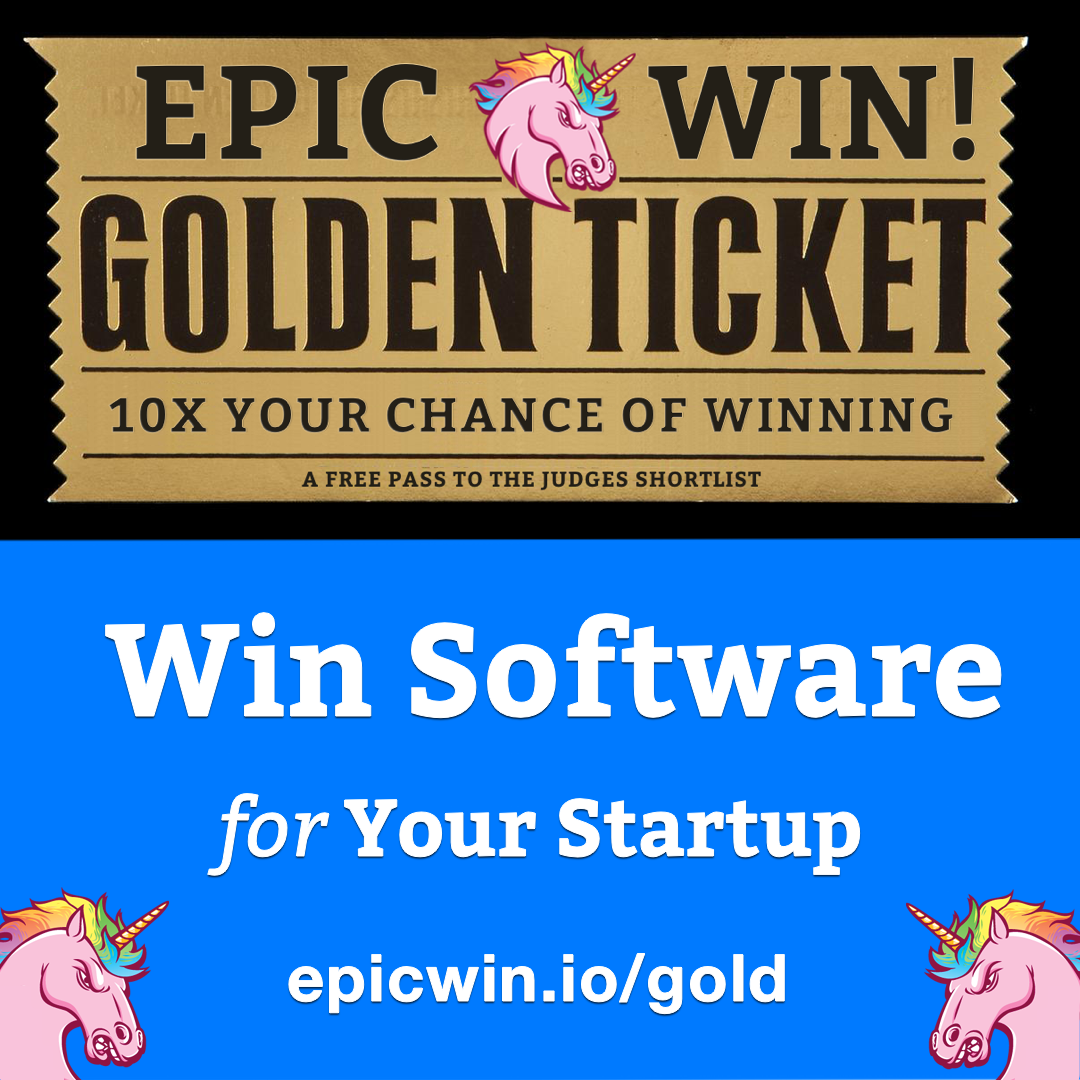
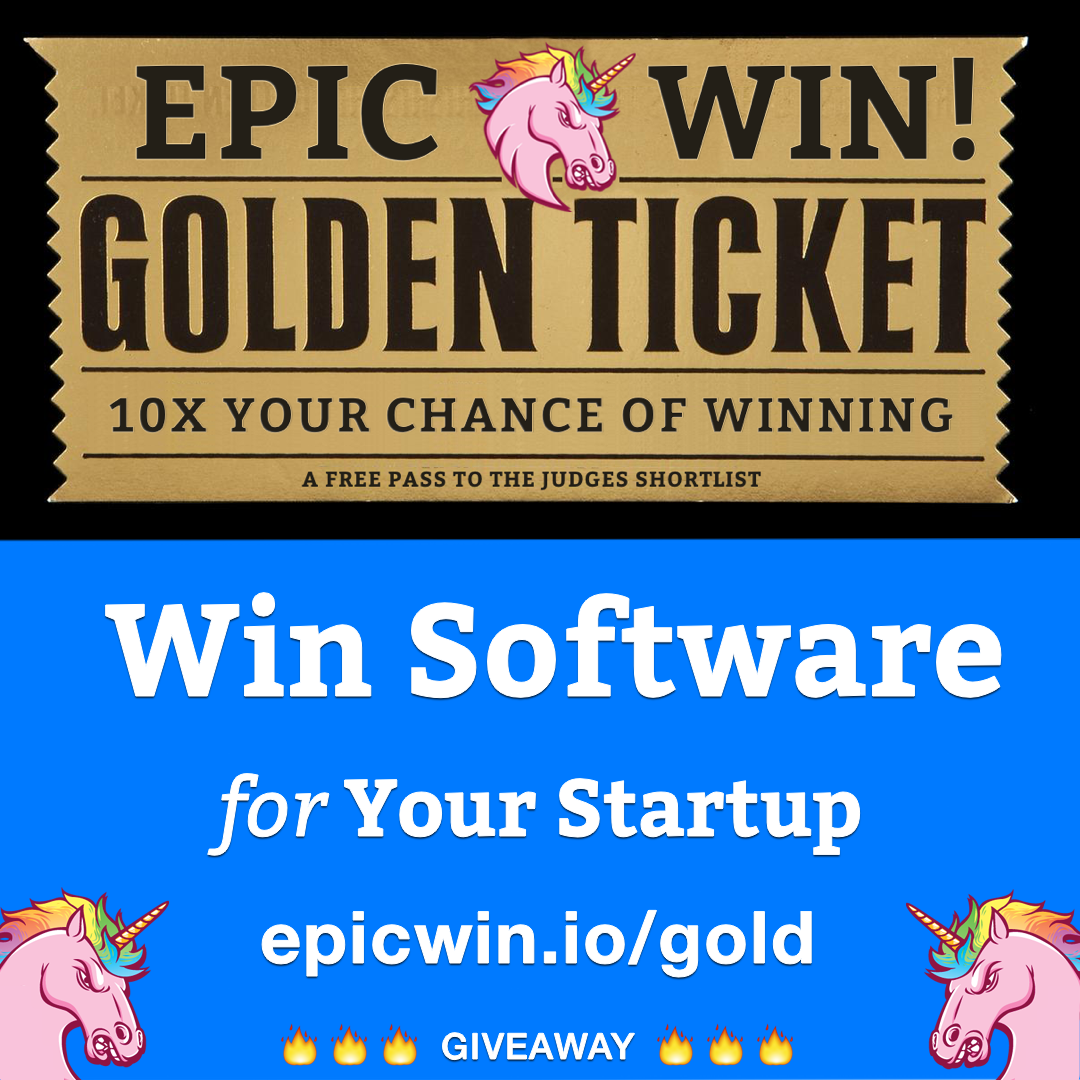
(Pre-Giveaway) and new gold image

Changed region(s): [[0.1833, 0.7028, 0.7944, 1.0], [0.0917, 0.55, 0.9472, 0.6722]]

diff --git a/_posts/2017-06-29-shopify.html b/_posts/2017-06-29-shopify.html
@@ -1,7 +1,7 @@
 ---
 layout:                 post
 slug:                   "shopify"
-title:                  "I WANT Shopify FREE for a YEAR!"
+title:                  "I WANT Shopify FREE for a YEAR! (Pre-Giveaway)"
 date:                   2017-06-29 00:16:53 +1000
 categories:             giveaway
 product_name:           "Shopify"
@@ -13,7 +13,7 @@ product_url_freetrial:  "https://app.shopify.com/services/signup/setup"
 gleam_coupon_url:       ""
 gleam_coupon_text:      ""
 gleam_competition_url:  "https://gleam.io/iHq3j/i-want-shopify-free-for-a-year"
-gleam_competition_text: "I WANT Shopify FREE for a YEAR!"
+gleam_competition_text: "I WANT Shopify FREE for a YEAR! (Pre-Giveaway)"
 gleam_question:         "In 10 words or less \"sell\" Shopify"
 gleam_starts:           "2017-07-27 12:00:00 AM"
 gleam_ends:             "2017-08-26 11:59:59 PM"
@@ -24,4 +24,4 @@ affiliate_default:      "chrisjacob.au"
 
 ---
 
-I WANT Shopify FREE for a YEAR!
+I WANT Shopify FREE for a YEAR! (Pre-Giveaway)

diff --git a/_posts/2017-06-28-gold.html b/_posts/2017-06-28-gold.html
@@ -1,7 +1,7 @@
 ---
 layout:                 post
 slug:                   "gold"
-title:                  "EPIC WIN Golden Ticket"
+title:                  "EPIC WIN Golden Ticket (Giveaway)"
 date:                   2017-06-28 00:16:53 +1000
 categories:             giveaway
 product_name:           "Golden Ticket"
@@ -12,10 +12,10 @@ product_url_pricing:    ""
 product_url_freetrial:  ""
 gleam_coupon_url:       ""
 gleam_coupon_text:      ""
-gleam_competition_url:  "https://gleam.io/rPtuy/epic-win-golden-ticket-10x-your-chance-of-winning-epic-software"
-gleam_competition_text: "EPIC WIN Golden Ticket (10x Your Chance of Winning Epic Software!)"
+gleam_competition_url:  "https://gleam.io/rPtuy/epic-win-golden-ticket-giveaway"
+gleam_competition_text: "EPIC WIN Golden Ticket (Giveaway)"
 affiliate_key:          "ref"
 affiliate_default:      "epicwinio"
 ---
 
-EPIC WIN Golden Ticket (10x Your Chance of Winning Epic Software!)
+EPIC WIN Golden Ticket (Giveaway)

diff --git a/_posts/2017-07-12-clickfunnels.html b/_posts/2017-07-12-clickfunnels.html
@@ -1,7 +1,7 @@
 ---
 layout:                 post
 slug:                   "clickfunnels"
-title:                  "I WANT ClickFunnels FREE for a YEAR!"
+title:                  "I WANT ClickFunnels FREE for a YEAR! (Pre-Giveaway)"
 date:                   2017-07-12 00:16:53 +1000
 categories:             giveaway
 product_name:           "ClickFunnels"
@@ -13,9 +13,9 @@ product_url_freetrial:  "https://www.clickfunnels.com/"
 gleam_coupon_url:       ""
 gleam_coupon_text:      ""
 gleam_competition_url:  "https://gleam.io/TFj2E/i-want-clickfunnels-free-for-a-year"
-gleam_competition_text: "I WANT ClickFunnels FREE for a YEAR!"
+gleam_competition_text: "I WANT ClickFunnels FREE for a YEAR! (Pre-Giveaway)"
 affiliate_key:          "affiliate_id"
 affiliate_default:      "epicwinio"
 ---
 
-I WANT ClickFunnels FREE for a YEAR!
+I WANT ClickFunnels FREE for a YEAR! (Pre-Giveaway)

diff --git a/_posts/2017-07-11-blinkist.html b/_posts/2017-07-11-blinkist.html
@@ -1,7 +1,7 @@
 ---
 layout:                 post
 slug:                   "blinkist"
-title:                  "I WANT Blinkist FREE for a YEAR!"
+title:                  "I WANT Blinkist FREE for a YEAR! (Pre-Giveaway)"
 date:                   2017-07-11 00:16:53 +1000
 categories:             giveaway
 product_name:           "Blinkist"
@@ -13,9 +13,9 @@ product_url_freetrial:  "https://www.blinkist.com/en/nc/signup/"
 gleam_coupon_url:       ""
 gleam_coupon_text:      ""
 gleam_competition_url:  "https://gleam.io/ByVcu/i-want-blinkist-free-for-a-year"
-gleam_competition_text: "I WANT Blinkist FREE for a YEAR!"
+gleam_competition_text: "I WANT Blinkist FREE for a YEAR! (Pre-Giveaway)"
 affiliate_key:          "referrer_token"
 affiliate_default:      "076f43bfc36a"
 ---
 
-I WANT Blinkist FREE for a YEAR!
+I WANT Blinkist FREE for a YEAR! (Pre-Giveaway)

diff --git a/_posts/2017-07-12-livechat.html b/_posts/2017-07-12-livechat.html
@@ -1,7 +1,7 @@
 ---
 layout:                 post
 slug:                   "livechat"
-title:                  "I WANT LiveChat FREE for a YEAR!"
+title:                  "I WANT LiveChat FREE for a YEAR! (Pre-Giveaway)"
 date:                   2017-07-12 00:16:53 +1000
 categories:             giveaway
 product_name:           "LiveChat"
@@ -13,9 +13,9 @@ product_url_freetrial:  "https://www.livechatinc.com/signup/"
 gleam_coupon_url:       ""
 gleam_coupon_text:      ""
 gleam_competition_url:  "https://gleam.io/GsG2b/i-want-livechat-free-for-a-year"
-gleam_competition_text: "I WANT LiveChat FREE for a YEAR!"
+gleam_competition_text: "I WANT LiveChat FREE for a YEAR! (Pre-Giveaway)"
 affiliate_key:          "a"
 affiliate_default:      "epicwinio"
 ---
 
-I WANT LiveChat FREE for a YEAR!
+I WANT LiveChat FREE for a YEAR! (Pre-Giveaway)

diff --git a/_posts/2017-07-12-tutsplus.html b/_posts/2017-07-12-tutsplus.html
@@ -1,7 +1,7 @@
 ---
 layout:                 post
 slug:                   "tutsplus"
-title:                  "I WANT Envato Tuts+ FREE for a YEAR!"
+title:                  "I WANT Envato Tuts+ FREE for a YEAR! (Pre-Giveaway)"
 date:                   2017-07-12 00:16:53 +1000
 categories:             giveaway
 product_name:           "Envato Tuts+"
@@ -13,9 +13,9 @@ product_url_freetrial:  ""
 gleam_coupon_url:       ""
 gleam_coupon_text:      ""
 gleam_competition_url:  "https://gleam.io/LQmox/i-want-envato-tuts-free-for-a-year"
-gleam_competition_text: "I WANT Envato Tuts+ FREE for a YEAR!"
+gleam_competition_text: "I WANT Envato Tuts+ FREE for a YEAR! (Pre-Giveaway)"
 affiliate_key:          "ref"
 affiliate_default:      "chrisjacob"
 ---
 
-I WANT Envato Tuts+ FREE for a YEAR!
+I WANT Envato Tuts+ FREE for a YEAR! (Pre-Giveaway)

diff --git a/_posts/2017-07-12-pagevamp.html b/_posts/2017-07-12-pagevamp.html
@@ -1,7 +1,7 @@
 ---
 layout:                 post
 slug:                   "pagevamp"
-title:                  "I WANT Pagevamp FREE for a YEAR!"
+title:                  "I WANT Pagevamp FREE for a YEAR! (Pre-Giveaway)"
 date:                   2017-07-12 00:16:53 +1000
 categories:             giveaway
 product_name:           "Pagevamp"
@@ -13,9 +13,9 @@ product_url_freetrial:  "https://www.pagevamp.com"
 gleam_coupon_url:       ""
 gleam_coupon_text:      ""
 gleam_competition_url:  "https://gleam.io/PXz8m/i-want-pagevamp-free-for-a-year"
-gleam_competition_text: "I WANT Pagevamp FREE for a YEAR!"
+gleam_competition_text: "I WANT Pagevamp FREE for a YEAR! (Pre-Giveaway)"
 affiliate_key:          "trk_code"
 affiliate_default:      "yEajPu8"
 ---
 
-I WANT Pagevamp FREE for a YEAR!
+I WANT Pagevamp FREE for a YEAR! (Pre-Giveaway)

diff --git a/_posts/2017-06-30-wpengine.html b/_posts/2017-06-30-wpengine.html
@@ -1,7 +1,7 @@
 ---
 layout:                 post
 slug:                   "wpengine"
-title:                  "I WANT WP Engine FREE for a YEAR!"
+title:                  "I WANT WP Engine FREE for a YEAR! (Pre-Giveaway)"
 date:                   2017-06-30 00:16:53 +1000
 categories:             giveaway
 product_name:           "WP Engine"
@@ -13,9 +13,9 @@ product_url_freetrial:  ""
 gleam_coupon_url:       ""
 gleam_coupon_text:      ""
 gleam_competition_url:  "https://gleam.io/VZ19U/i-want-wp-engine-free-for-a-year"
-gleam_competition_text: "I WANT WP Engine FREE for a YEAR!"
+gleam_competition_text: "I WANT WP Engine FREE for a YEAR! (Pre-Giveaway)"
 affiliate_key:          "ref"
 affiliate_default:      "epicwinio"
 ---
 
-I WANT WP Engine FREE for a YEAR!
+I WANT WP Engine FREE for a YEAR! (Pre-Giveaway)

diff --git a/_posts/2017-07-11-gleam.html b/_posts/2017-07-11-gleam.html
@@ -1,7 +1,7 @@
 ---
 layout:                 post
 slug:                   "gleam"
-title:                  "I WANT Gleam FREE for a YEAR!"
+title:                  "I WANT Gleam FREE for a YEAR! (Pre-Giveaway)"
 date:                   2017-07-11 00:16:53 +1000
 categories:             giveaway
 product_name:           "Gleam"
@@ -13,9 +13,9 @@ product_url_freetrial:  "https://gleam.io/signup"
 gleam_coupon_url:       ""
 gleam_coupon_text:      ""
 gleam_competition_url:  "https://gleam.io/atyVk/i-want-gleam-free-for-a-year"
-gleam_competition_text: "I WANT Gleam FREE for a YEAR!"
+gleam_competition_text: "I WANT Gleam FREE for a YEAR! (Pre-Giveaway)"
 affiliate_key:          "via"
 affiliate_default:      "748476"
 ---
 
-I WANT Gleam FREE for a YEAR!
+I WANT Gleam FREE for a YEAR! (Pre-Giveaway)

diff --git a/_posts/2017-07-12-drip.html b/_posts/2017-07-12-drip.html
@@ -1,7 +1,7 @@
 ---
 layout:                 post
 slug:                   "drip"
-title:                  "I WANT Drip FREE for a YEAR!"
+title:                  "I WANT Drip FREE for a YEAR! (Pre-Giveaway)"
 date:                   2017-07-12 00:16:53 +1000
 categories:             giveaway
 product_name:           "Drip"
@@ -13,9 +13,9 @@ product_url_freetrial:  "https://www.drip.co/pricing"
 gleam_coupon_url:       ""
 gleam_coupon_text:      ""
 gleam_competition_url:  "https://gleam.io/ijPQb/i-want-drip-free-for-a-year"
-gleam_competition_text: "I WANT Drip FREE for a YEAR!"
+gleam_competition_text: "I WANT Drip FREE for a YEAR! (Pre-Giveaway)"
 affiliate_key:          "mbsy"
 affiliate_default:      "epicwinio"
 ---
 
-I WANT Drip FREE for a YEAR!
+I WANT Drip FREE for a YEAR! (Pre-Giveaway)

diff --git a/_posts/2017-07-12-sumo.html b/_posts/2017-07-12-sumo.html
@@ -1,7 +1,7 @@
 ---
 layout:                 post
 slug:                   "sumo"
-title:                  "I WANT Sumo FREE for a YEAR!"
+title:                  "I WANT Sumo FREE for a YEAR! (Pre-Giveaway)"
 date:                   2017-07-12 00:16:53 +1000
 categories:             giveaway
 product_name:           "Sumo"
@@ -13,9 +13,9 @@ product_url_freetrial:  "https://sumo.com/register"
 gleam_coupon_url:       ""
 gleam_coupon_text:      ""
 gleam_competition_url:  "https://gleam.io/TnQ02/i-want-sumo-free-for-a-year"
-gleam_competition_text: "I WANT Sumo FREE for a YEAR!"
+gleam_competition_text: "I WANT Sumo FREE for a YEAR! (Pre-Giveaway)"
 affiliate_key:          "ref"
 affiliate_default:      "epicwinio"
 ---
 
-I WANT Sumo FREE for a YEAR!
+I WANT Sumo FREE for a YEAR! (Pre-Giveaway)
